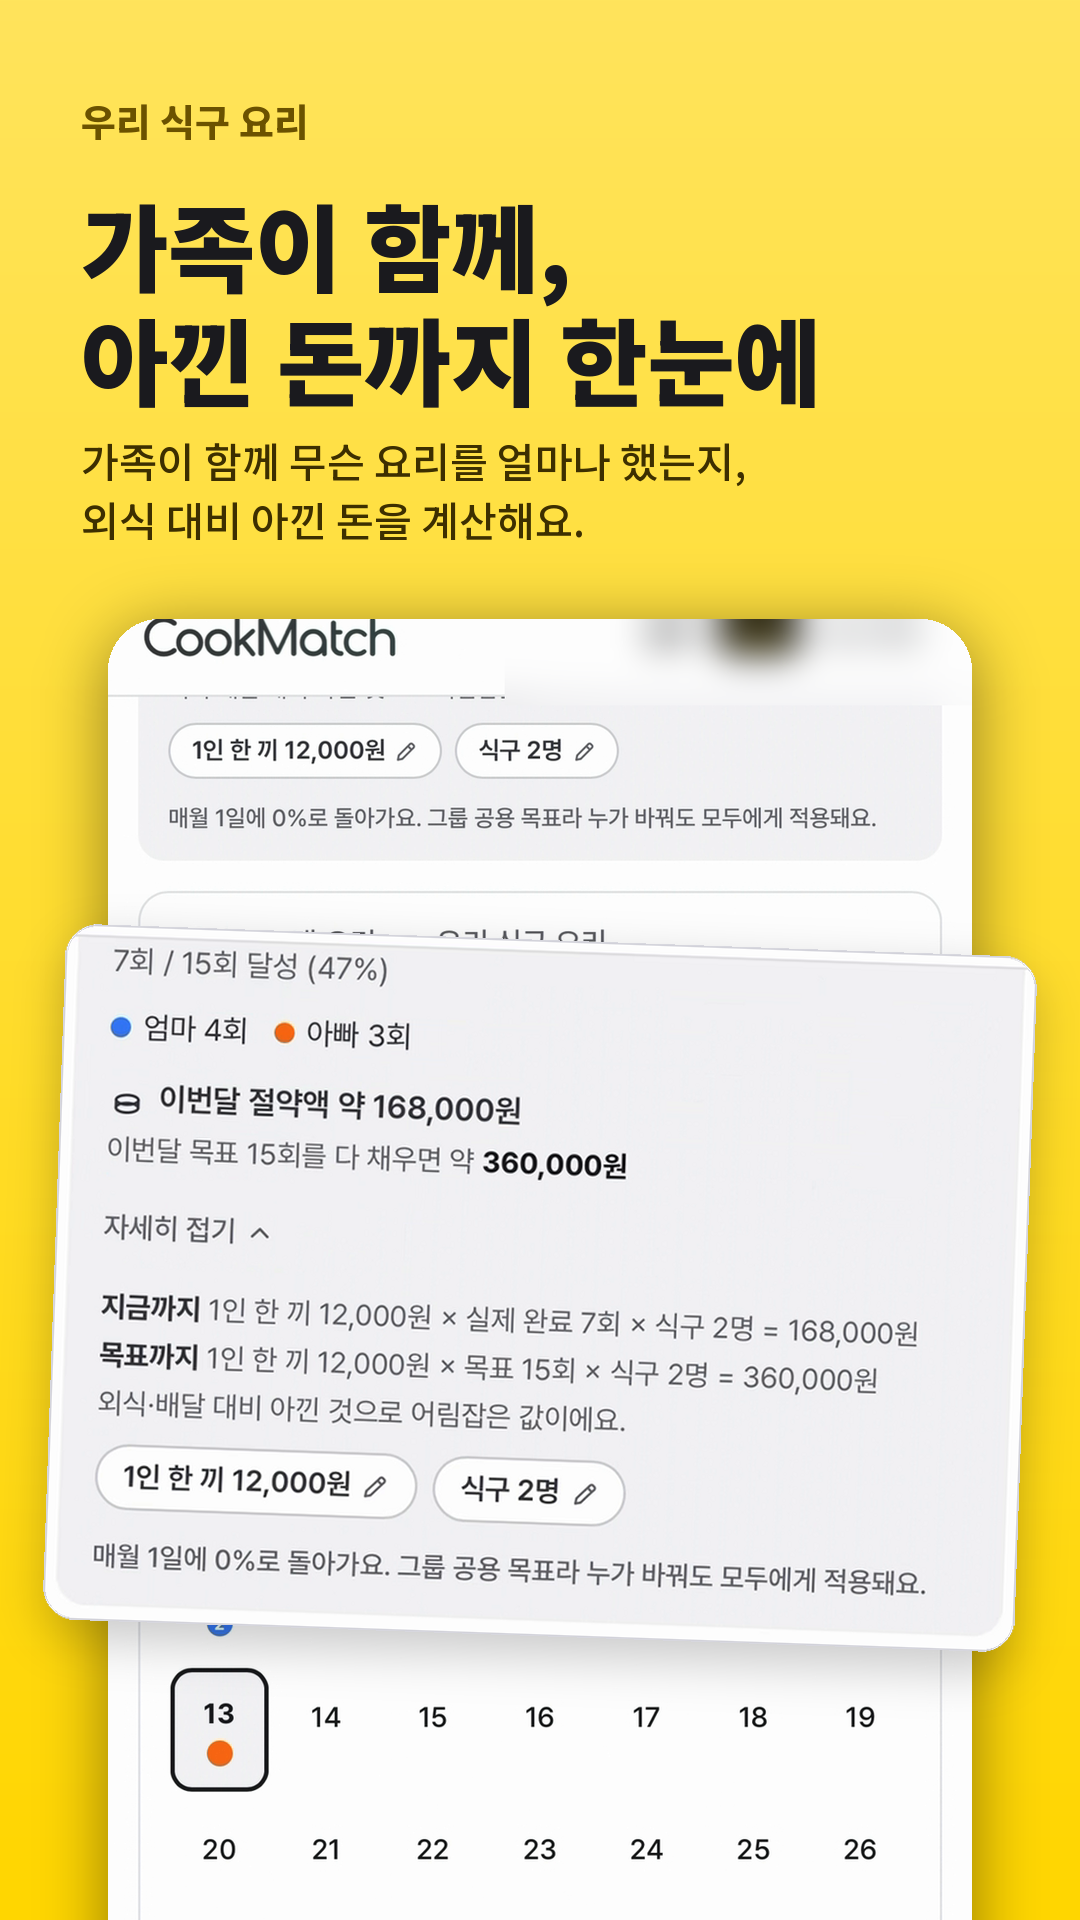
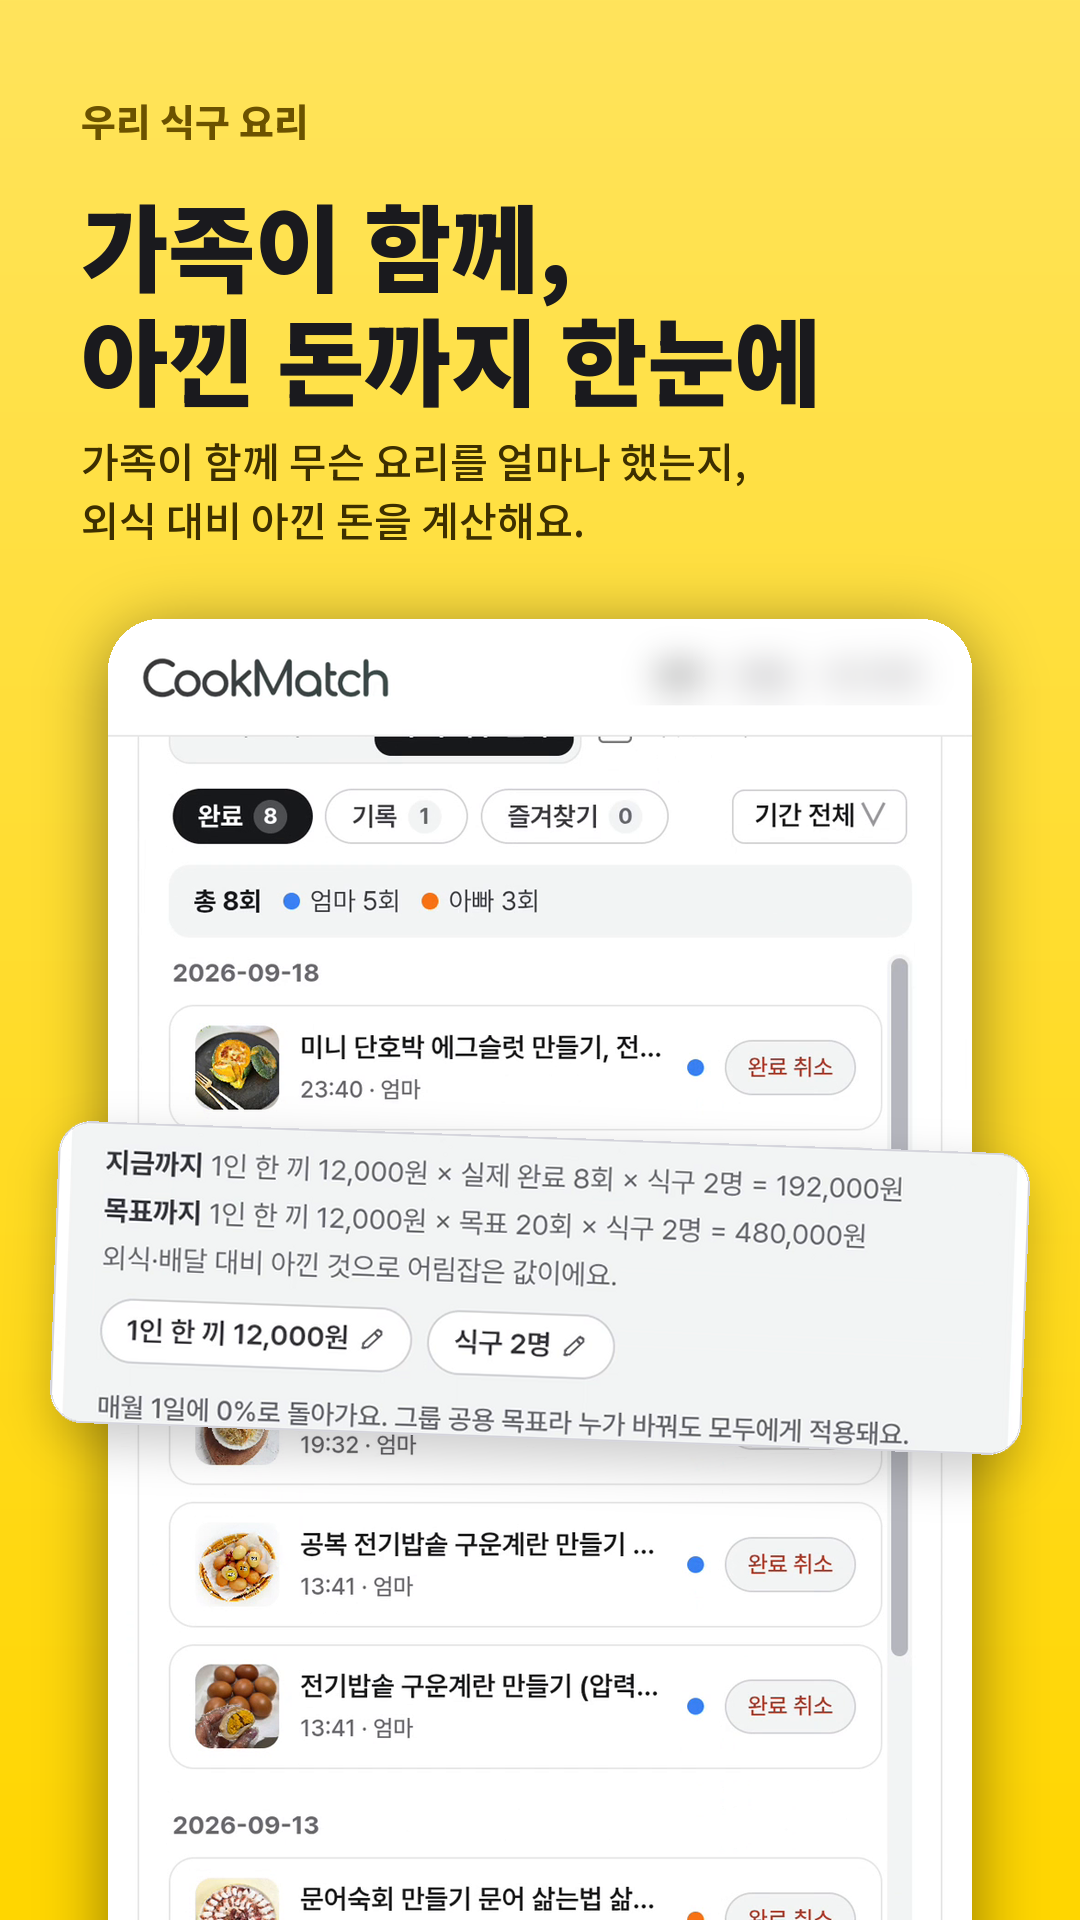
스토어 스크린샷 4·5·6·8번 새 UI로 재제작(Play·iOS)

diff --git a/store/make_store_assets.py b/store/make_store_assets.py
@@ -286,10 +286,11 @@ SOURCES = {
     "substitute": ("store/sources/substitute_main.png", None, 132),
     "expiry": ("store/sources/match_main.png", None, 132),  # 배경은 목록 그대로(임박 필터 적용 뒤 화면은 썸네일이 안 뜬 카드가 섞였다)
     "cook": (V + "reel3_reading_freeze.png", None, 180),
-    "family": (V + "reel8_family_demo.mp4", 16.5, 180),
+    # 2026-10-12: 로그인한 가족 계정(엄마) 새 UI 녹화에서 뽑음 — 헤더의 닉네임은 기본 블러(NO_BLUR 아님)
+    "family": ("store/sources/family_main.png", None, 0),
 }
 
-NO_BLUR = {"match", "substitute", "expiry"}
+NO_BLUR = {"match", "expiry"}  # substitute 는 로그인 상태(`엄마`)로 찍혀 헤더 블러
 
 # 폰 화면 위에 겹쳐 올리는 보조 이미지(기울인 작은 카드 / 확대 콜아웃).
 #   crop: 원본 픽셀 좌표(상태바 자르기 전)  w: 캔버스 폭 대비 너비  angle: 반시계 방향 기울기(도)
@@ -306,16 +307,16 @@ INSETS = {
              w=0.29, angle=0, cx=0.5, cy=0.33, radius=0.045),
     ],
     # 재료 매칭도 설정 팝업
-    "match": dict(src="store/sources/match_filter_popup.png", crop=(94, 583, 986, 1886),
+    "match": dict(src="store/sources/match_filter_popup.png", crop=(94, 582, 986, 1887),
                   w=0.47, angle=-6, cx=0.72, cy=0.40, radius=0.04),
     # "대체 가능 · 당근→양파"가 있는 레시피 카드를 잘라 크게
-    "substitute": dict(src="store/sources/substitute_main.png", crop=(91, 1153, 990, 1548),
+    "substitute": dict(src="store/sources/substitute_main.png", crop=(15, 1270, 1065, 1560),
                        w=0.92, angle=-2, cx=0.5, cy=0.78, radius=0.03),
     # 임박 재료 설정 팝업
     "expiry": dict(src="store/sources/expiry_filter_popup.png", crop=(94, 582, 986, 1887),
                    w=0.47, angle=-6, cx=0.72, cy=0.40, radius=0.04),
     # 가족별 요리 횟수 + 이번 달 절약액과 그 계산식
-    "family": dict(src=V + "reel8_savings_bg.png", crop=(20, 248, 860, 850),
+    "family": dict(src="store/sources/family_savings.png", crop=(20, 140, 920, 420),
                    w=0.9, angle=-2, cx=0.5, cy=0.62, radius=0.03),
 }
 
